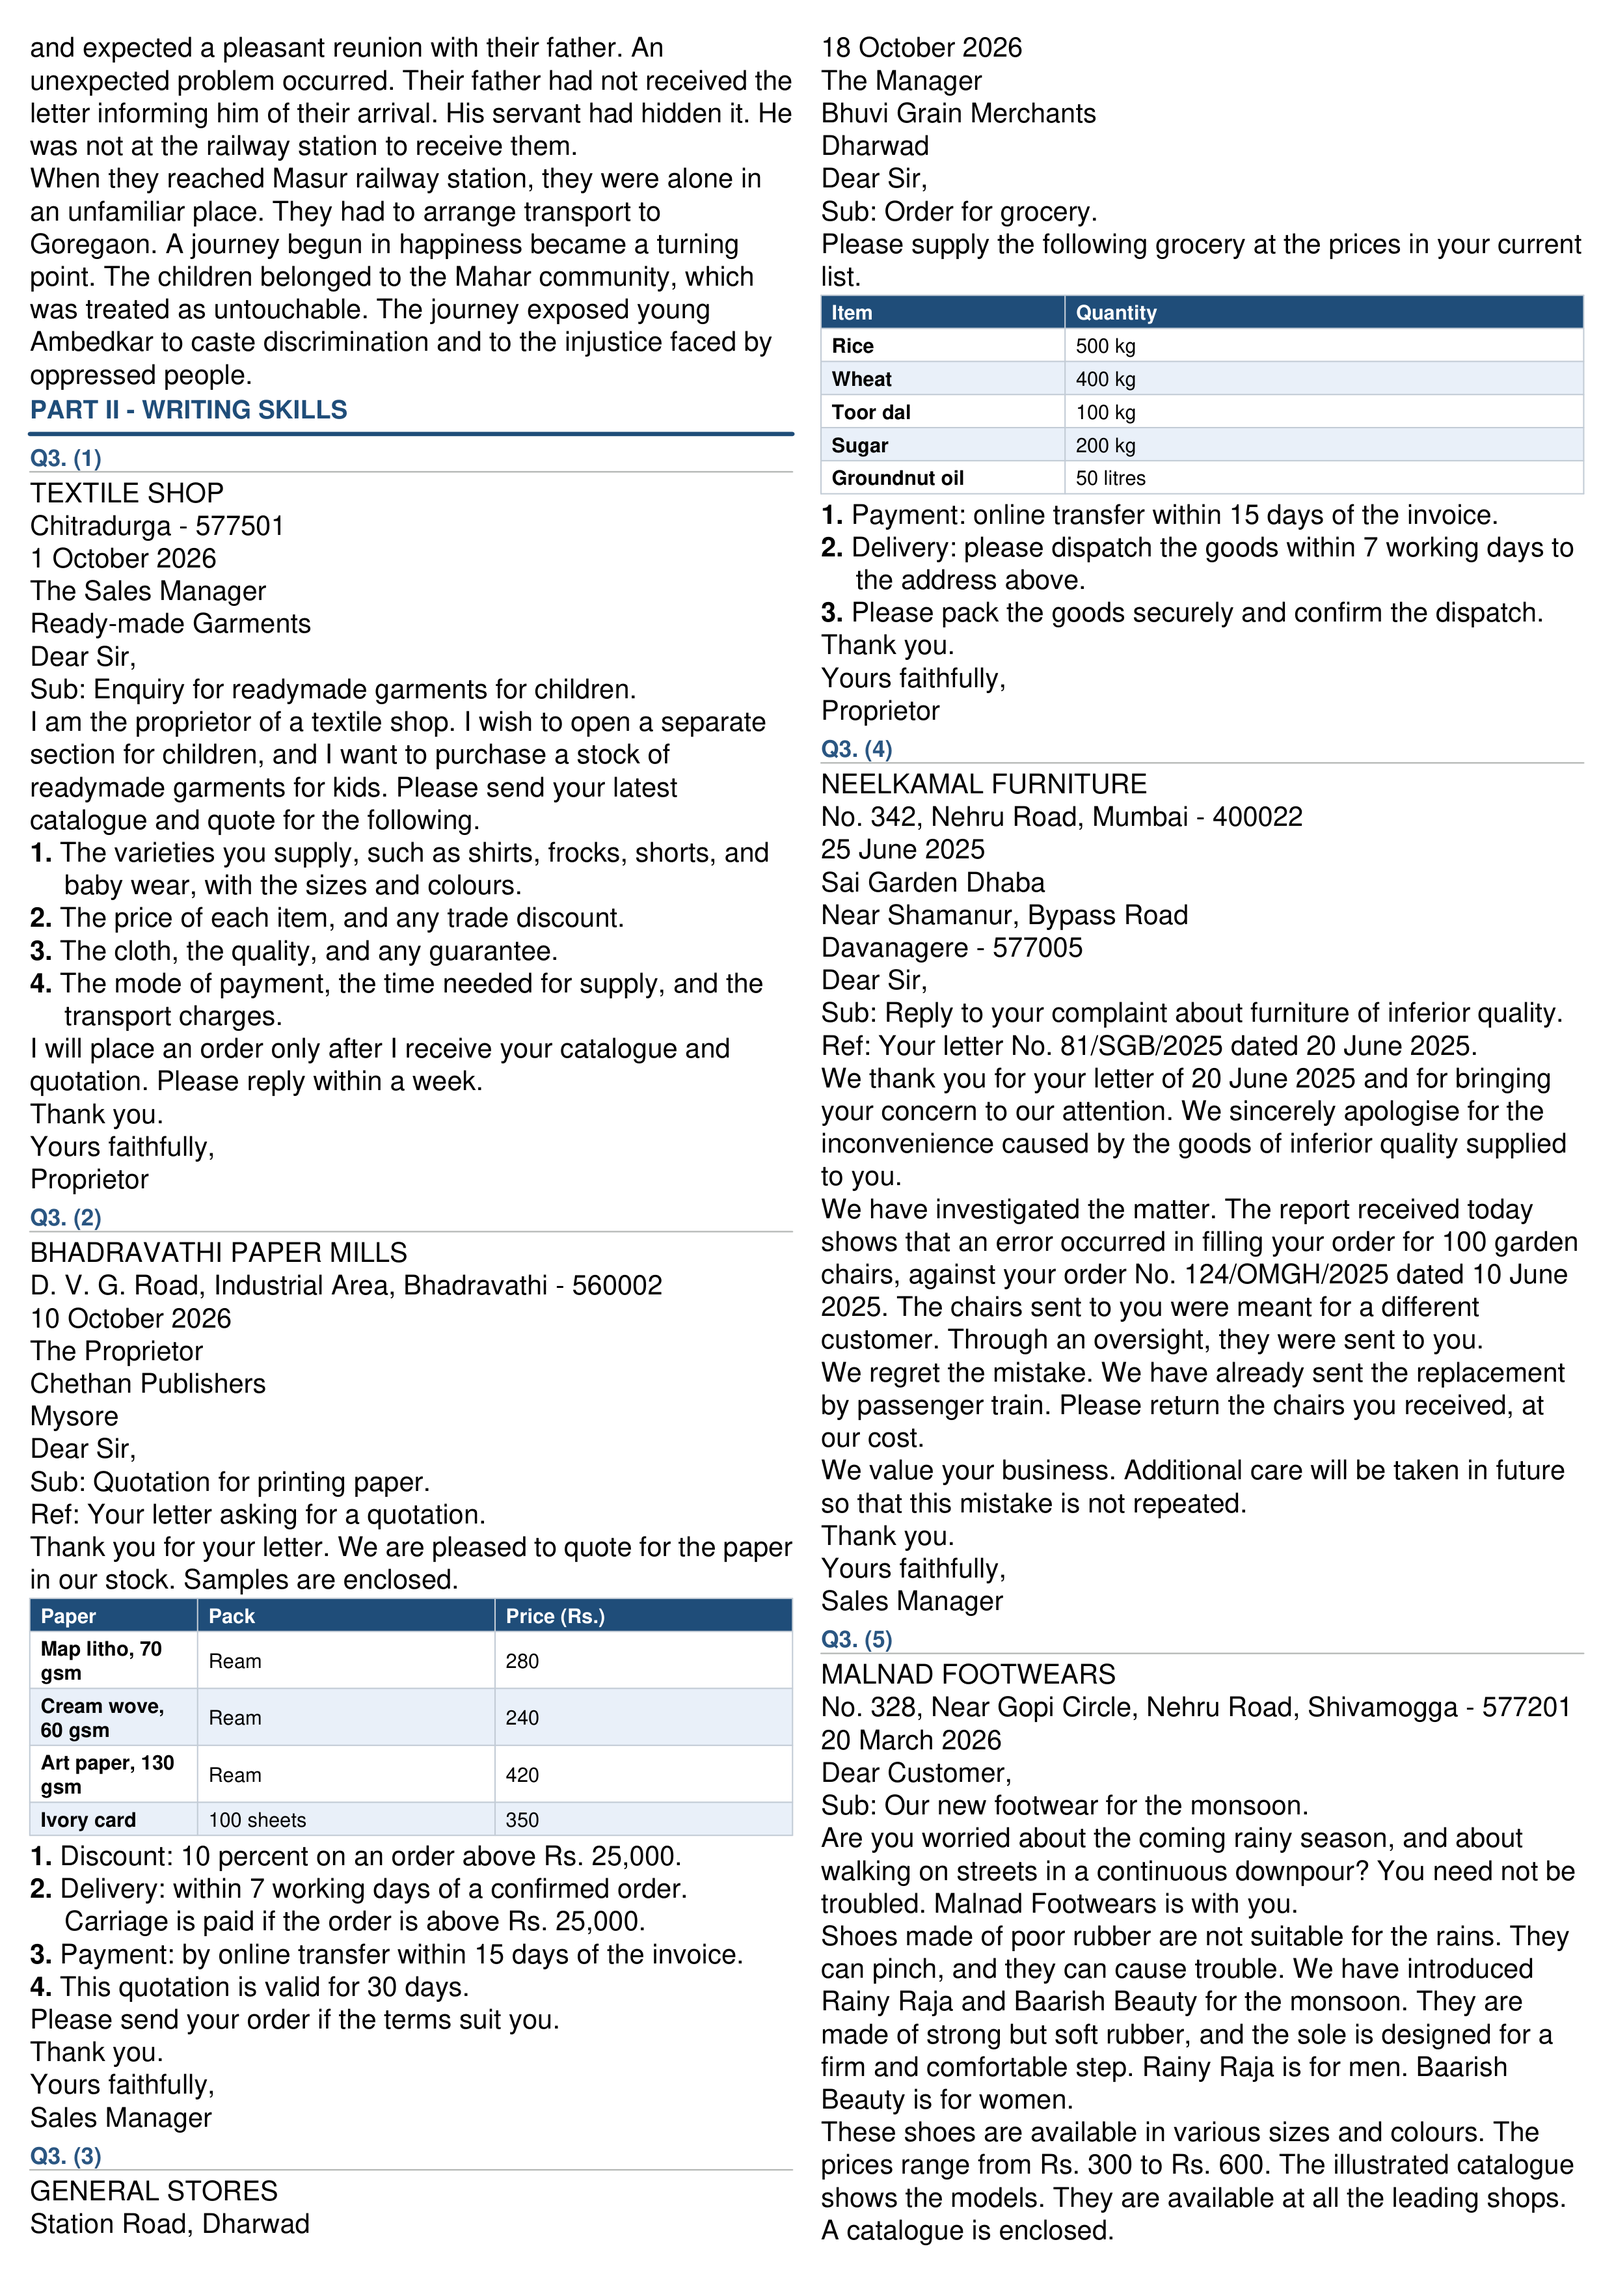
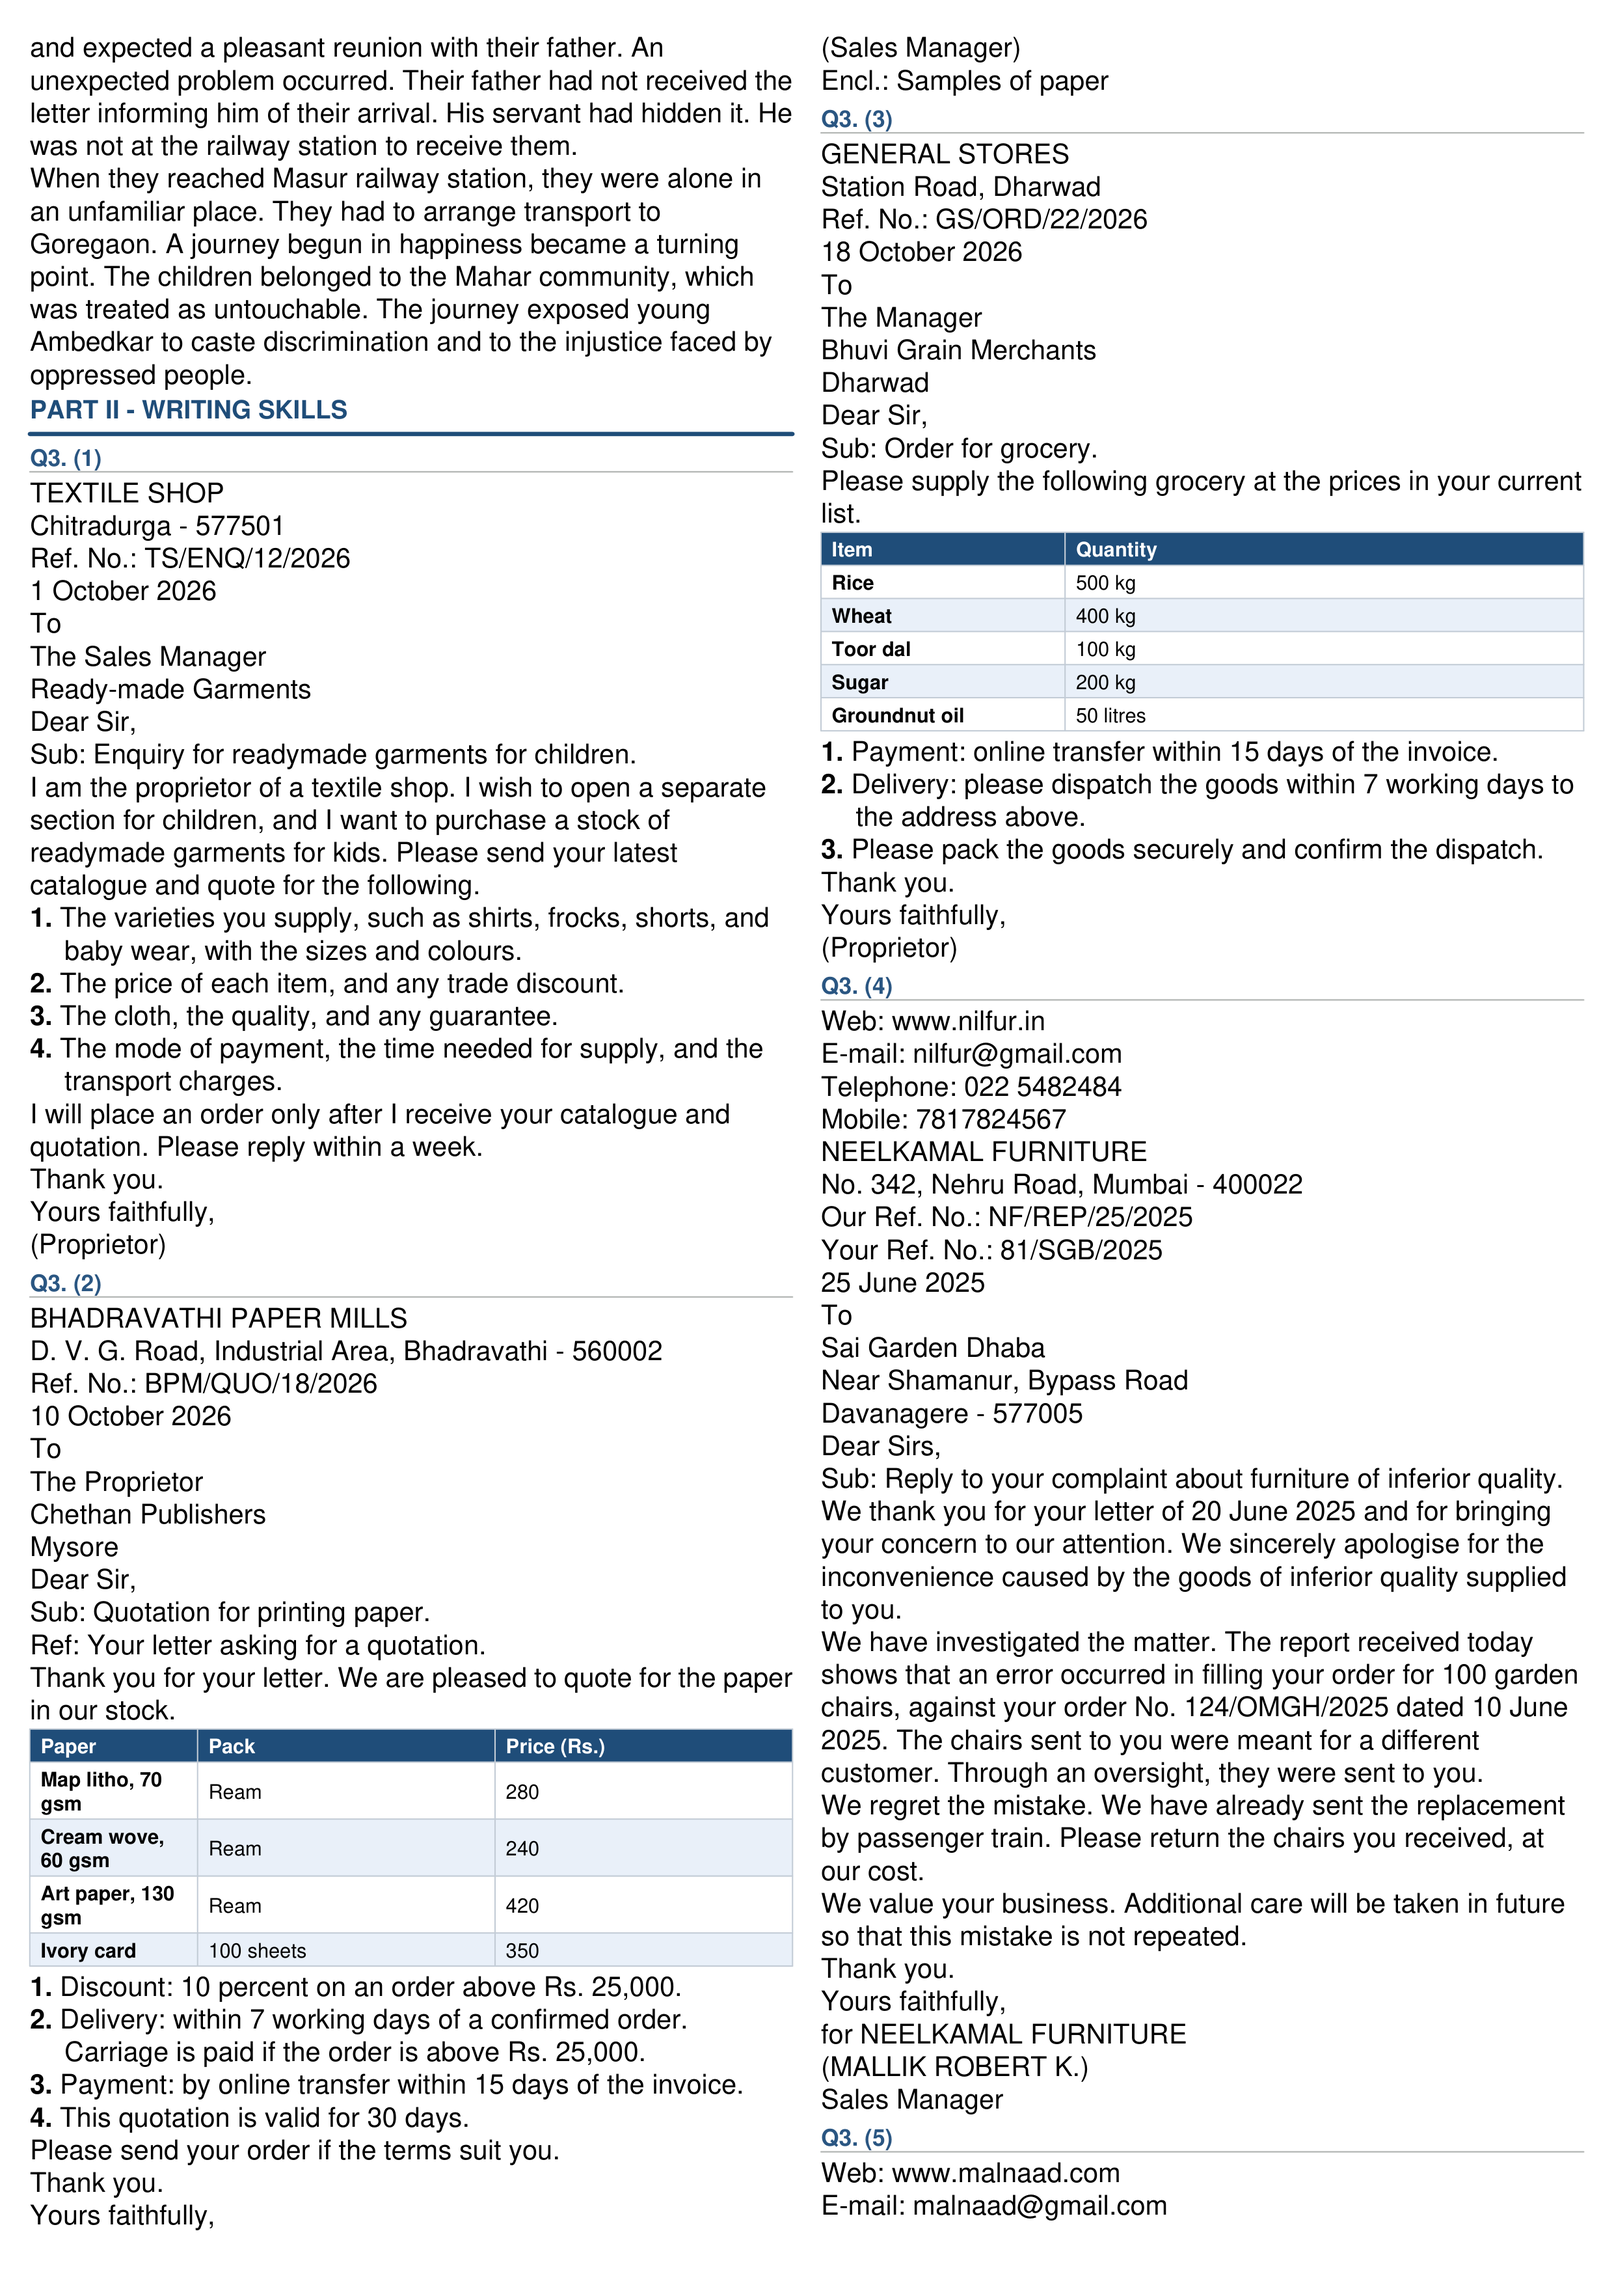
Use the notes' business-letter format on the model paper.
Add the reference line, the inside address, the writer's name, and the enclosure line. The reply and the circular also use the letterhead printed in the notes.

Changed region(s): [[0.0, 0.0, 0.9931, 0.9943], [0.1862, 0.2175, 0.2173, 0.2486]]

diff --git a/papers/english-model-6-nov-2026/answers.md b/papers/english-model-6-nov-2026/answers.md
@@ -76,7 +76,11 @@ TEXTILE SHOP
 
 Chitradurga - 577501
 
+Ref. No.: TS/ENQ/12/2026
+
 1 October 2026
+
+To
 
 The Sales Manager
 
@@ -99,14 +103,18 @@ Thank you.
 
 Yours faithfully,
 
-Proprietor
+(Proprietor)
 
 ## Q3. (2)
 BHADRAVATHI PAPER MILLS
 
 D. V. G. Road, Industrial Area, Bhadravathi - 560002
 
+Ref. No.: BPM/QUO/18/2026
+
 10 October 2026
+
+To
 
 The Proprietor
 
@@ -120,7 +128,7 @@ Sub: Quotation for printing paper.
 
 Ref: Your letter asking for a quotation.
 
-Thank you for your letter. We are pleased to quote for the paper in our stock. Samples are enclosed.
+Thank you for your letter. We are pleased to quote for the paper in our stock.
 
 | Paper | Pack | Price (Rs.) |
 |---|---|---|
@@ -140,14 +148,20 @@ Thank you.
 
 Yours faithfully,
 
-Sales Manager
+(Sales Manager)
+
+Encl.: Samples of paper
 
 ## Q3. (3)
 GENERAL STORES
 
 Station Road, Dharwad
 
+Ref. No.: GS/ORD/22/2026
+
 18 October 2026
+
+To
 
 The Manager
 
@@ -177,14 +191,28 @@ Thank you.
 
 Yours faithfully,
 
-Proprietor
+(Proprietor)
 
 ## Q3. (4)
+Web: www.nilfur.in
+
+E-mail: nilfur@gmail.com
+
+Telephone: 022 5482484
+
+Mobile: 7817824567
+
 NEELKAMAL FURNITURE
 
 No. 342, Nehru Road, Mumbai - 400022
 
+Our Ref. No.: NF/REP/25/2025
+
+Your Ref. No.: 81/SGB/2025
+
 25 June 2025
+
+To
 
 Sai Garden Dhaba
 
@@ -192,11 +220,9 @@ Near Shamanur, Bypass Road
 
 Davanagere - 577005
 
-Dear Sir,
+Dear Sirs,
 
 Sub: Reply to your complaint about furniture of inferior quality.
-
-Ref: Your letter No. 81/SGB/2025 dated 20 June 2025.
 
 We thank you for your letter of 20 June 2025 and for bringing your concern to our attention. We sincerely apologise for the inconvenience caused by the goods of inferior quality supplied to you.
 
@@ -210,16 +236,28 @@ Thank you.
 
 Yours faithfully,
 
+for NEELKAMAL FURNITURE
+
+(MALLIK ROBERT K.)
+
 Sales Manager
 
 ## Q3. (5)
+Web: www.malnaad.com
+
+E-mail: malnaad@gmail.com
+
+Telephone: 08182 434215
+
+Mobile: 9448199442
+
 MALNAD FOOTWEARS
 
 No. 328, Near Gopi Circle, Nehru Road, Shivamogga - 577201
 
-20 March 2026
+20 March 2025
 
-Dear Customer,
+Dear Sir/Madam,
 
 Sub: Our new footwear for the monsoon.
 
@@ -233,7 +271,11 @@ Thank you.
 
 Yours faithfully,
 
+(ACHCHARI H. N.)
+
 Proprietor
+
+Encl.: Catalogue
 
 ## Q3. (6)
 1. **Blockchain:** A blockchain is used in cryptocurrency. It is a continuously growing list of records called blocks, linked and secured by cryptography. Each block contains a set of verified transactions. Once a transaction is recorded, it is virtually impossible to alter.
